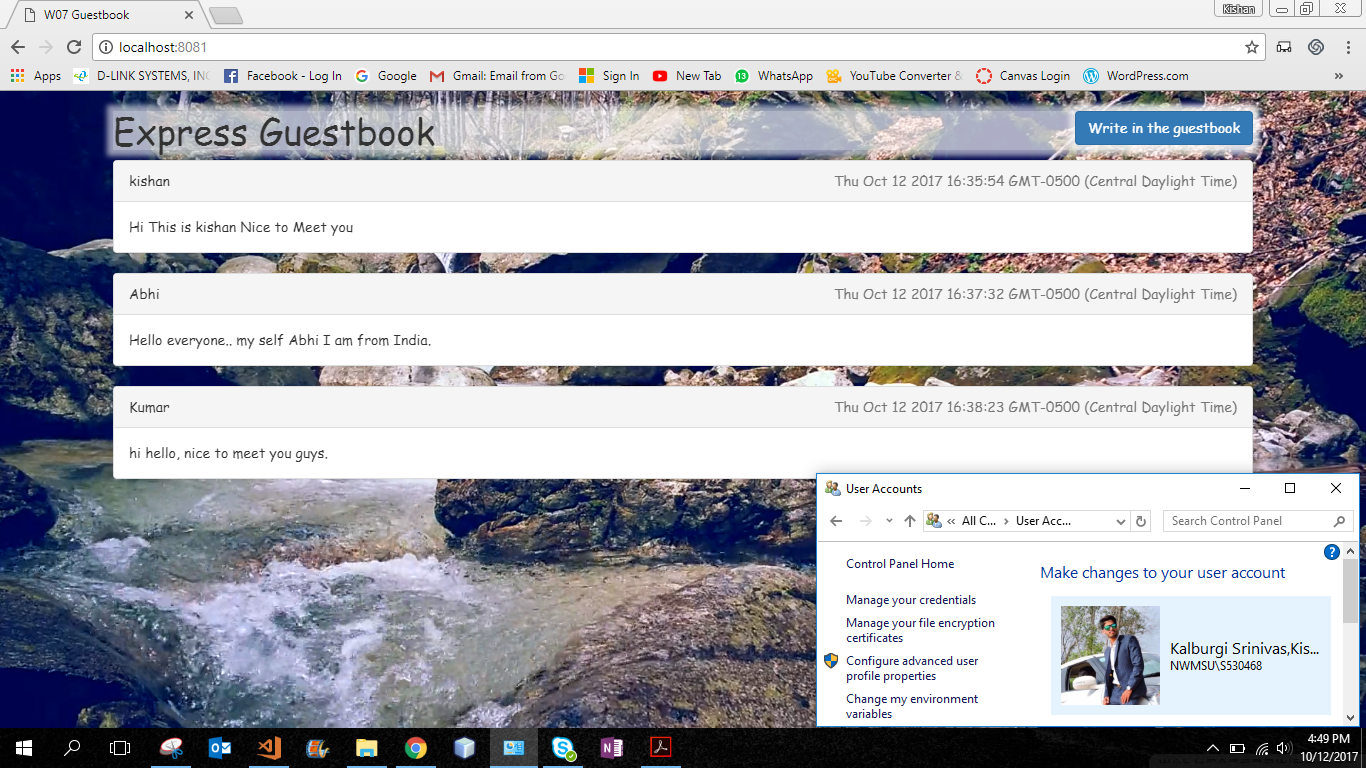
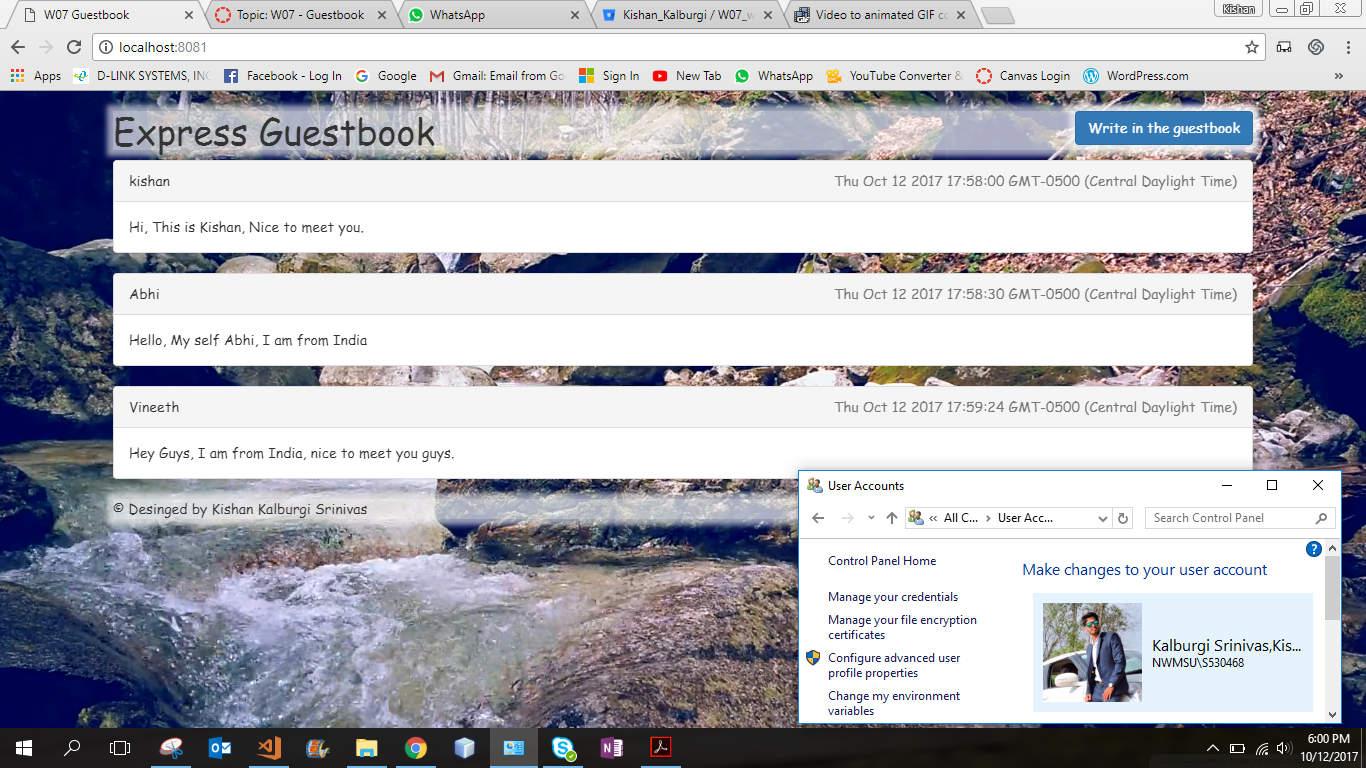
-updated footer.ejs

diff --git a/assets/guestbook.css b/assets/guestbook.css
@@ -30,7 +30,7 @@
   }
 }
 
-h1, h2, label, a, span {
+h1, h2, label, a, span, footer {
     background-color: rgba(255, 255, 255, 0.68);
     box-shadow: 0 0 7px 6px rgba(255, 255, 255, 0.58);
 }
